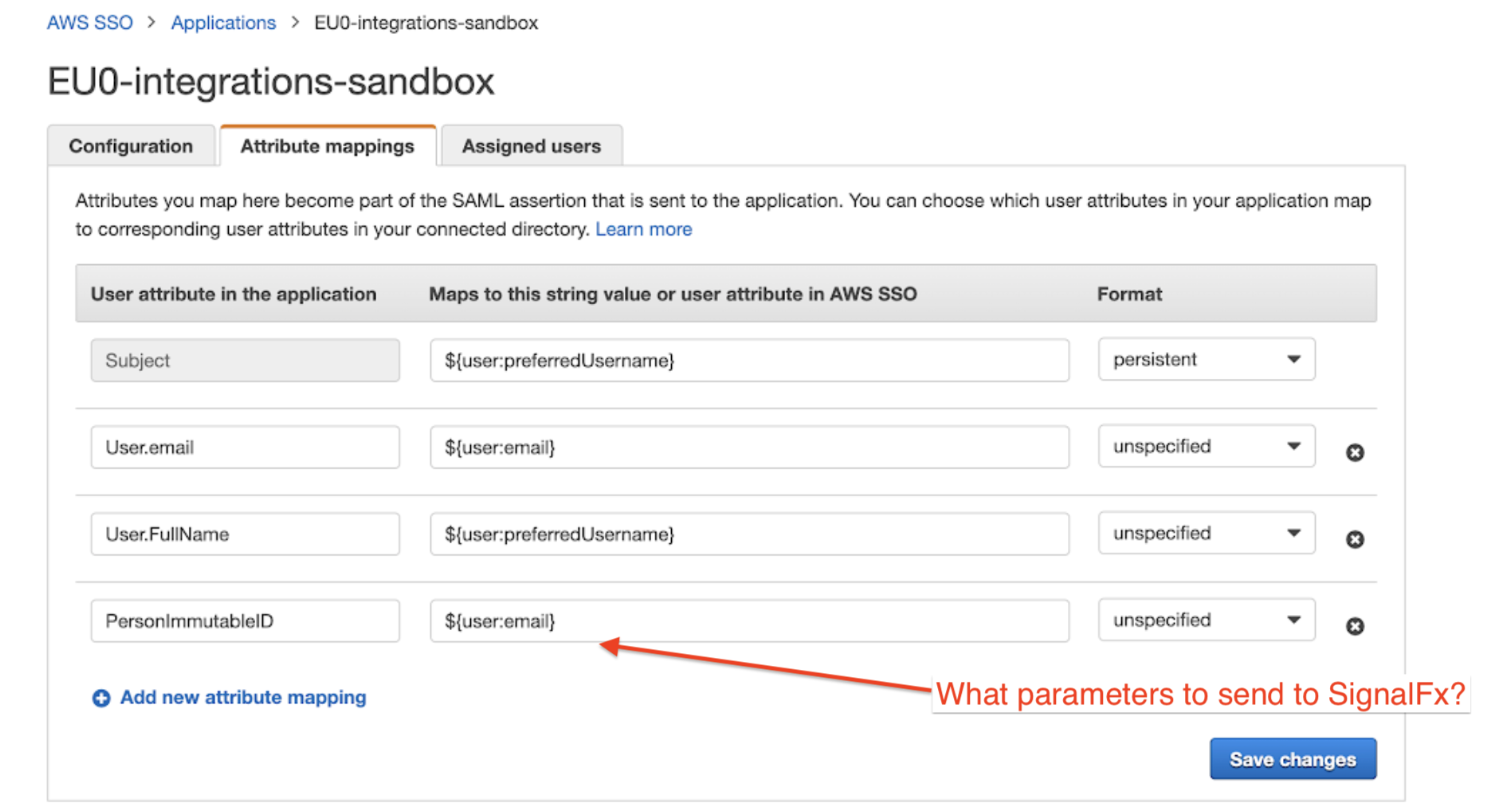
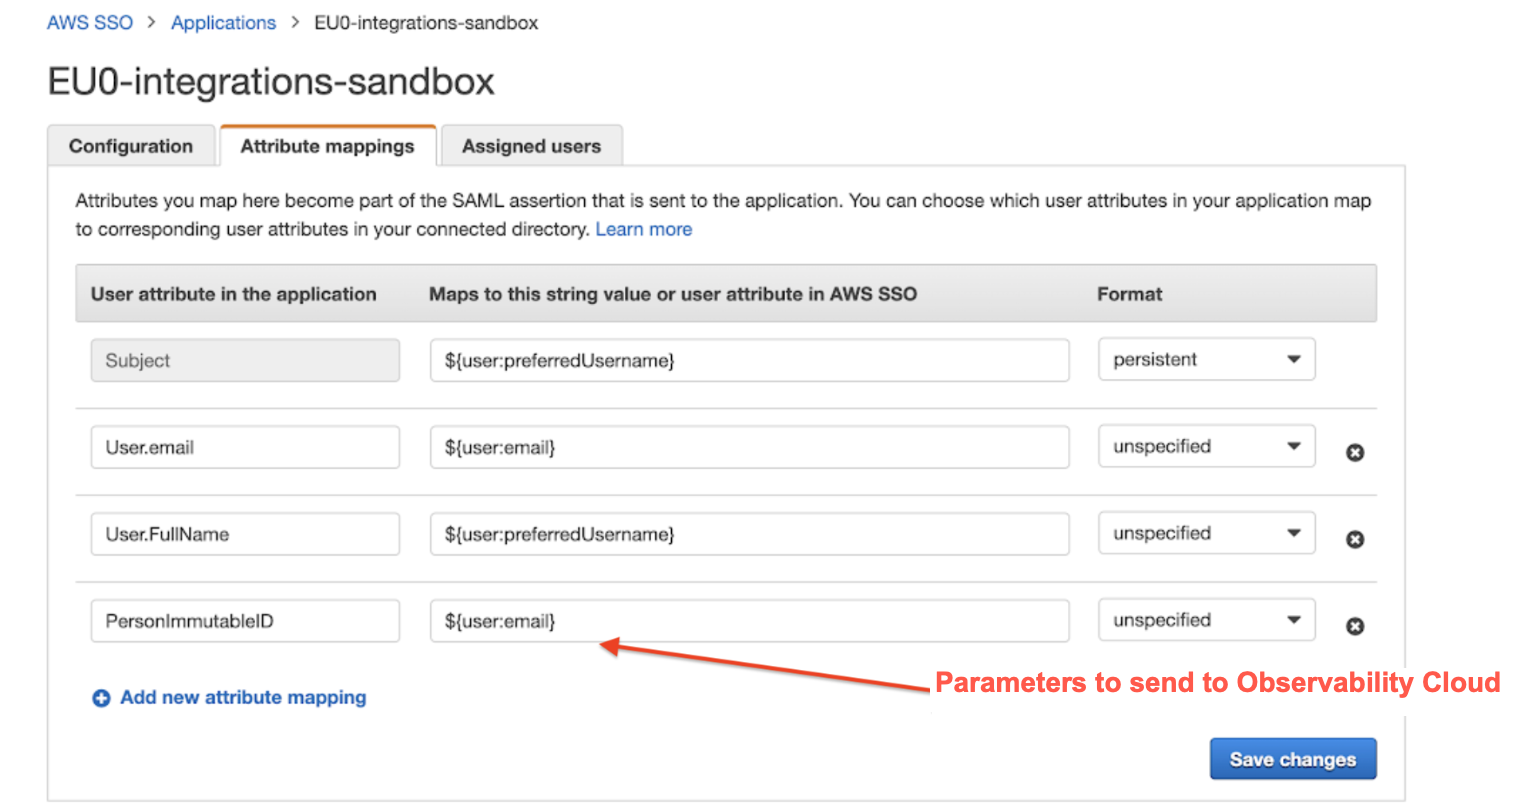
implement edits

diff --git a/admin/SSO/sso-troubleshoot.rst b/admin/SSO/sso-troubleshoot.rst
@@ -9,92 +9,125 @@ Troubleshoot your SSO integration
 
 
 
-Configuration checklist
-=======================
+If you experience configuration issues, check these common misconfigurations.
 
+  * Confirm that :guilabel:`Entity ID` and :guilabel:`ACS URL`, also called :guilabel:`Reply URL` point to the correct realm.
+  * Check whether :guilabel:`Integration-specific Entity ID`, if used, and :guilabel:`ACS URL` contain the correct Integration ID.
+  * See whether :guilabel:`Entity ID`, also called :guilabel:`Metadata URL` or :guilabel:`SAML audience`, is the same in the IdP and Splunk Observability Cloud.  The :guilabel:`Entity ID` can contain the integration ID or not. Whether it is included is controlled by a checkbox in the Splunk Observability Cloud integration setup page. Make sure that the same Entity ID is configured in the IdP.
+  * Check that claims are configured correctly. Claims are case sensitive. :code:`Email` doesn't work, so you must use :code:`User.email`.
 
-If you experience configuration issues, use this checklist of common misconfigurations.
-
-  * :guilabel:`Entity ID` and :guilabel:`ACS URL` (also called :guilabel:`Reply URL`) point to the correct realm.
-  * :guilabel:`Integration-specific Entity ID`, if used, and :guilabel:`ACS URL` contain the correct Integration ID.
-  * :guilabel:`Entity ID` (also called :guilabel:`Metadata URL` or :guilabel:`SAML audience`) is the same in the IdP and Splunk Observability Cloud.  :guilabel:`Entity ID` can contain the Integration ID or not. Whether it is included is controlled by a checkbox in the Splunk Observability Cloud integration setup page. Make sure that the same Entity ID is configured in the IdP.
-  * Check that claims are configured correctly. Claims are case sensitive. :code:`Email` won't work, it must be :code:`User.email`
-
-
-Troubleshooting
-------------------
 
 If you are still encountering configuration errors, review the following troubleshooting information for symptoms and potential solutions.
 
-  * After the first redirect to the IdP, the IdP does not recognize the application.
+After the first redirect to the IdP, the IdP does not recognize the application
+---------------------------------------------------------------------------------
   
-    :strong:`Symptoms`
-      This example is from AzureAD:
+Symptom
+*********
 
-      :code:`AADSTS700016: Application with identifier 'https://api.signalfx.com/v1/saml/metadata/EiObDvcAYAA' was not found in the directory 'fa80159f-****-****-****-************'.`
+You may see this error message:
 
-    :strong:`Causes`
-      * This can happen if the application has not been installed by the administrator of the tenant or consented to by any user in the tenant. 
-      * You might have sent your authentication request to the wrong tenant. 
-      * The IdP doesn't recognize the identifier, which also called Metadata URL or Entity Id or Issuer URL.
+AADSTS700016: Application with identifier 'https://api.signalfx.com/v1/saml/metadata/EiObDvcAYAA' was not found in the directory 'fa80159f-****-****-****-************'.
+
+
+Causes
+********
+
+  * The IdP might not recognize the application if the application has not been installed by the administrator of the tenant or consented to by any user in the tenant. 
+  * You might have sent your authentication request to the wrong tenant. 
+  * The IdP doesn't recognize the identifier, which is also called Metadata URL, Entity Id, or Issuer URL.
     
-    :strong:`Solutions`
-      * Verify that the identifier (Metadata URL) points to the correct realm. 
-      * Verify the Entity ID is correct.
+Solutions
+************
 
-* After login, the user ends up in a different organization than expected.
+  * Verify that the Metadta URL identifier points to the correct realm. 
+  * Verify the Entity ID is correct.
+
+
+After logging in, the user ends up in a different organization than expected
+-------------------------------------------------------------------------------
   
-  :strong:`Symptom`
-    The user ends up in a different organization than expected.
+Cause
+******
 
-  :strong:`Cause`
-    The likely cause is having more than one Splunk Observability Cloud integration configured your IdP and the IdP cannot distinguish between them. The user is sent to the wrong one, usually the first one configured.
-  :strong:`Solution`
-    Make sure that all of your SSO integrations have the :guilabel:`Entity ID` checked. Ensure that in the IdP, the Splunk Observability Cloud connection is configured to accept the new format of the Entity ID, which is displayed next to the checkbox and contains Integration ID in it.
+The likely cause is having more than one Splunk Observability Cloud integration configured your IdP and the IdP cannot distinguish between them. The user is sent to the wrong one, usually the first one configured.
 
-* You receive a 404 error from Observability Cloud after you log in to the IdP.
+Solutions
+**********
+
+Make sure that all of your SSO integrations have the :guilabel:`Entity ID` checked. Ensure that in the IdP, the Splunk Observability Cloud connection is configured to accept the new format of the Entity ID, which is displayed next to the checkbox and contains the Integration ID in it.
+
+
+You receive a 404 error from Observability Cloud after you log in to the IdP.
+-------------------------------------------------------------------------------
   
-  :strong:`Symptom`
-    .. image:: /_images/admin/sso-troubleshoot1.png
-      :width: 50%
-      :alt: A 404 error message stating "Could not find credentials".
 
-  :strong:`Cause`
-    The likely cause is that your configuration is pointing to the incorrect realm.
-  :strong:`Solution`
-    Verify that the :code:`ACS URL` contains the correct realm and :code:`Integration ID`.
+Symptom
+*******
+For example, you see an error message that says "Could not find credentials".
+  .. image:: /_images/admin/sso-troubleshoot1.png
+    :width: 50%
+    :alt: A 404 error message stating "Could not find credentials".
 
-* You receive a 401 error after you log in to the IdP.
+Cause
+******
+
+Your configuration is pointing to the incorrect realm.
   
-  :strong:`Symptom`
-    .. image:: /_images/admin/sso-troubleshoot401.png
-      :width: 50%
-      :alt: A 401 error message stating "Authentication required".
+Solution
+*********
 
-  :strong:`Cause`
-    Most likely the :code:`Subject` attribute in the assertion has a format other than :code:`Persistent`. :code:`Subject` identifies the subject of a SAML assertion, which is typically the user who is being authenticated. A :code:`Persistent` subject means that IdP guarantees that this attribute will always stay the same for a given user. Observability Cloud requires the subject to be in persistent format.
-  :strong:`Solution`
-    Change the subject format to persistent in the IdP settings.
+Verify that the :guilabel:`ACS URL` contains the correct realm and :guilabel:`Integration ID`.
 
-* You see an error message that your SAML provider is unsupported.
+
+You receive a 401 error after you log in to the IdP
+------------------------------------------------------
   
-  :strong:`Symptom`
-    .. image:: /_images/admin/sso-troubleshoot-unsupported.png
-      :width: 50%
-      :alt: A 500 error message stating "Unsupported SAML provider".
+Symptom
+*********
+For example, you see an error message stating that authentication is required.
+.. image:: /_images/admin/sso-troubleshoot401.png
+  :width: 50%
+  :alt: A 401 error message stating "Authentication required".
 
-  :strong:`Cause`
-    For IdP specific integrations for example, PingOne, Okta, OneLogin,  Observability Cloud expects that the requests will be coming from particular domains or URLs.
-  :strong:`Solution`
-    Use the Generic SAML integration instead of the integration dedicated to your IdP. Most IdPs have built-in generic SAML 2.0 plugins which should be used for this purpose. Enabling generic SAML requires additional actions :ref:`sso-generic`.
- 
-* You don't see a login button on the login page.
+Cause
+******
+
+The :code:`Subject` attribute in the assertion has a format other than :code:`Persistent`. The :code:`Subject` attribute identifies the subject of a SAML assertion, which is typically the user who is being authenticated. A :code:`Persistent` subject means that IdP guarantees that this attribute  always stays the same for a given user. Observability Cloud requires the subject to be in Persistent format.
+
+Solution
+**********
+
+Change the subject format to Persistent in the IdP settings.
+
+You see an error message that your SAML provider is unsupported.
+-------------------------------------------------------------------
   
-  :strong:`Symptom`
-    As stated, the login button is not visible.
+Symptom
+*********
 
-  :strong:`Cause`
-    Splunk Observability Clound can render a login button only for orgs with a custom subdomain.
-  :strong:`Solution`
-    Contact your CSM to request a custom URL.
+.. image:: /_images/admin/sso-troubleshoot-unsupported.png
+  :width: 50%
+  :alt: A 500 error message stating "Unsupported SAML provider".
+
+Cause
+******
+
+For IdP specific integrations such as, PingOne, Okta, or OneLogin,  Observability Cloud expects that the requests will come from particular domains or URLs.
+
+Solution
+**********
+    Use the generic SAML integration instead of the integration dedicated to your IdP. Most IdPs have built-in generic SAML 2.0 plugins that are used for this purpose. Enabling generic SAML requires additional actions. See :ref:`sso-generic`.
+
+You don't see a login button on the login page.
+-------------------------------------------------
+  
+Cause
+*******
+
+Splunk Observability Cloud can render a login button only for organizations with a custom subdomain.
+
+Solution
+***********
+Contact your CSM to request a custom URL.
      

diff --git a/admin/SSO/sso-about.rst b/admin/SSO/sso-about.rst
@@ -53,11 +53,11 @@ The IdP requires the following information:
   - Application ACS (Assertion Consumer Service) URL: Where to send the assertion. 
   - Application SAML audience: How Splunk Observability Cloud identifies itself.
 
-Additionally, the IdP needs to know what parameters to send to Splunk Observability Cloud.
+Additionally, the IdP needs to know what parameters to send to Splunk Observability Cloud. The following image shows the AWS attribute mappings for the SAML assertion.
 
 .. image:: /_images/admin/sso-parameters.png
       :width: 90%
-      :alt: The attributes that the IdP will send to Splunk Observability Cloud.
+      :alt: The attributes that the IdP sends to Splunk Observability Cloud.
 
 The product-specific integrations provide default values for most of these fields and you don't have to configure them manually.  When setting up generic SAML or Active Directory Federation Searches (FS), you need to provide all the values yourself. 
 
